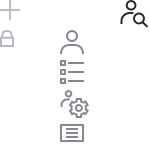
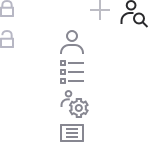
디자인수정 반영

diff --git a/assets/css/style.css b/assets/css/style.css
@@ -265,12 +265,12 @@ h1, h2, h3, h4, h5, h6, p {
   position: relative;
 }
 .contWrapper .contLayout .myProjDetail {
-  width: calc(100% - 350px - 640px);
+  width: calc(100% - 350px - 700px);
   padding: 1.875rem;
   padding-right: 0;
 }
 .contWrapper .contLayout .myProjJob {
-  width: 40rem;
+  width: 43.75rem;
   height: calc(100vh - 70px);
   overflow-y: auto;
   padding: 1.875rem 1.875rem;
@@ -433,7 +433,7 @@ h1, h2, h3, h4, h5, h6, p {
 .gnbWrapper .navCtrlBtn {
   width: 2.5rem;
   height: 2.5rem;
-  padding: 0.5625rem;
+  padding: 0.5625rem 0.8125rem;
   margin-left: 0.5625rem;
   border-radius: 0.375rem;
   background: #fff;

diff --git a/assets/scss/_partial/_layout.scss b/assets/scss/_partial/_layout.scss
@@ -39,7 +39,7 @@
             position: relative;
         }
         .myProjDetail{
-            width: calc(100% - 350px - 640px);            
+            width: calc(100% - 350px - 700px);            
             padding: rem(30);
             padding-right: 0;
             //화면분할
@@ -54,7 +54,7 @@
         .myProjJob{
             //화면분할
             //display: none;
-            width: rem(640);
+            width: rem(700);
             //height: calc(100vh - 88px);
             height: calc(100vh - 70px);
             overflow-y: auto;

diff --git a/assets/scss/_partial/_gnb.scss b/assets/scss/_partial/_gnb.scss
@@ -13,7 +13,7 @@
     .navCtrlBtn{
         width: rem(40);
         height: rem(40);
-        padding: rem(9);
+        padding: rem(9) rem(13);
         margin-left: rem(9);
         border-radius: rem(6);
         background: $white;
